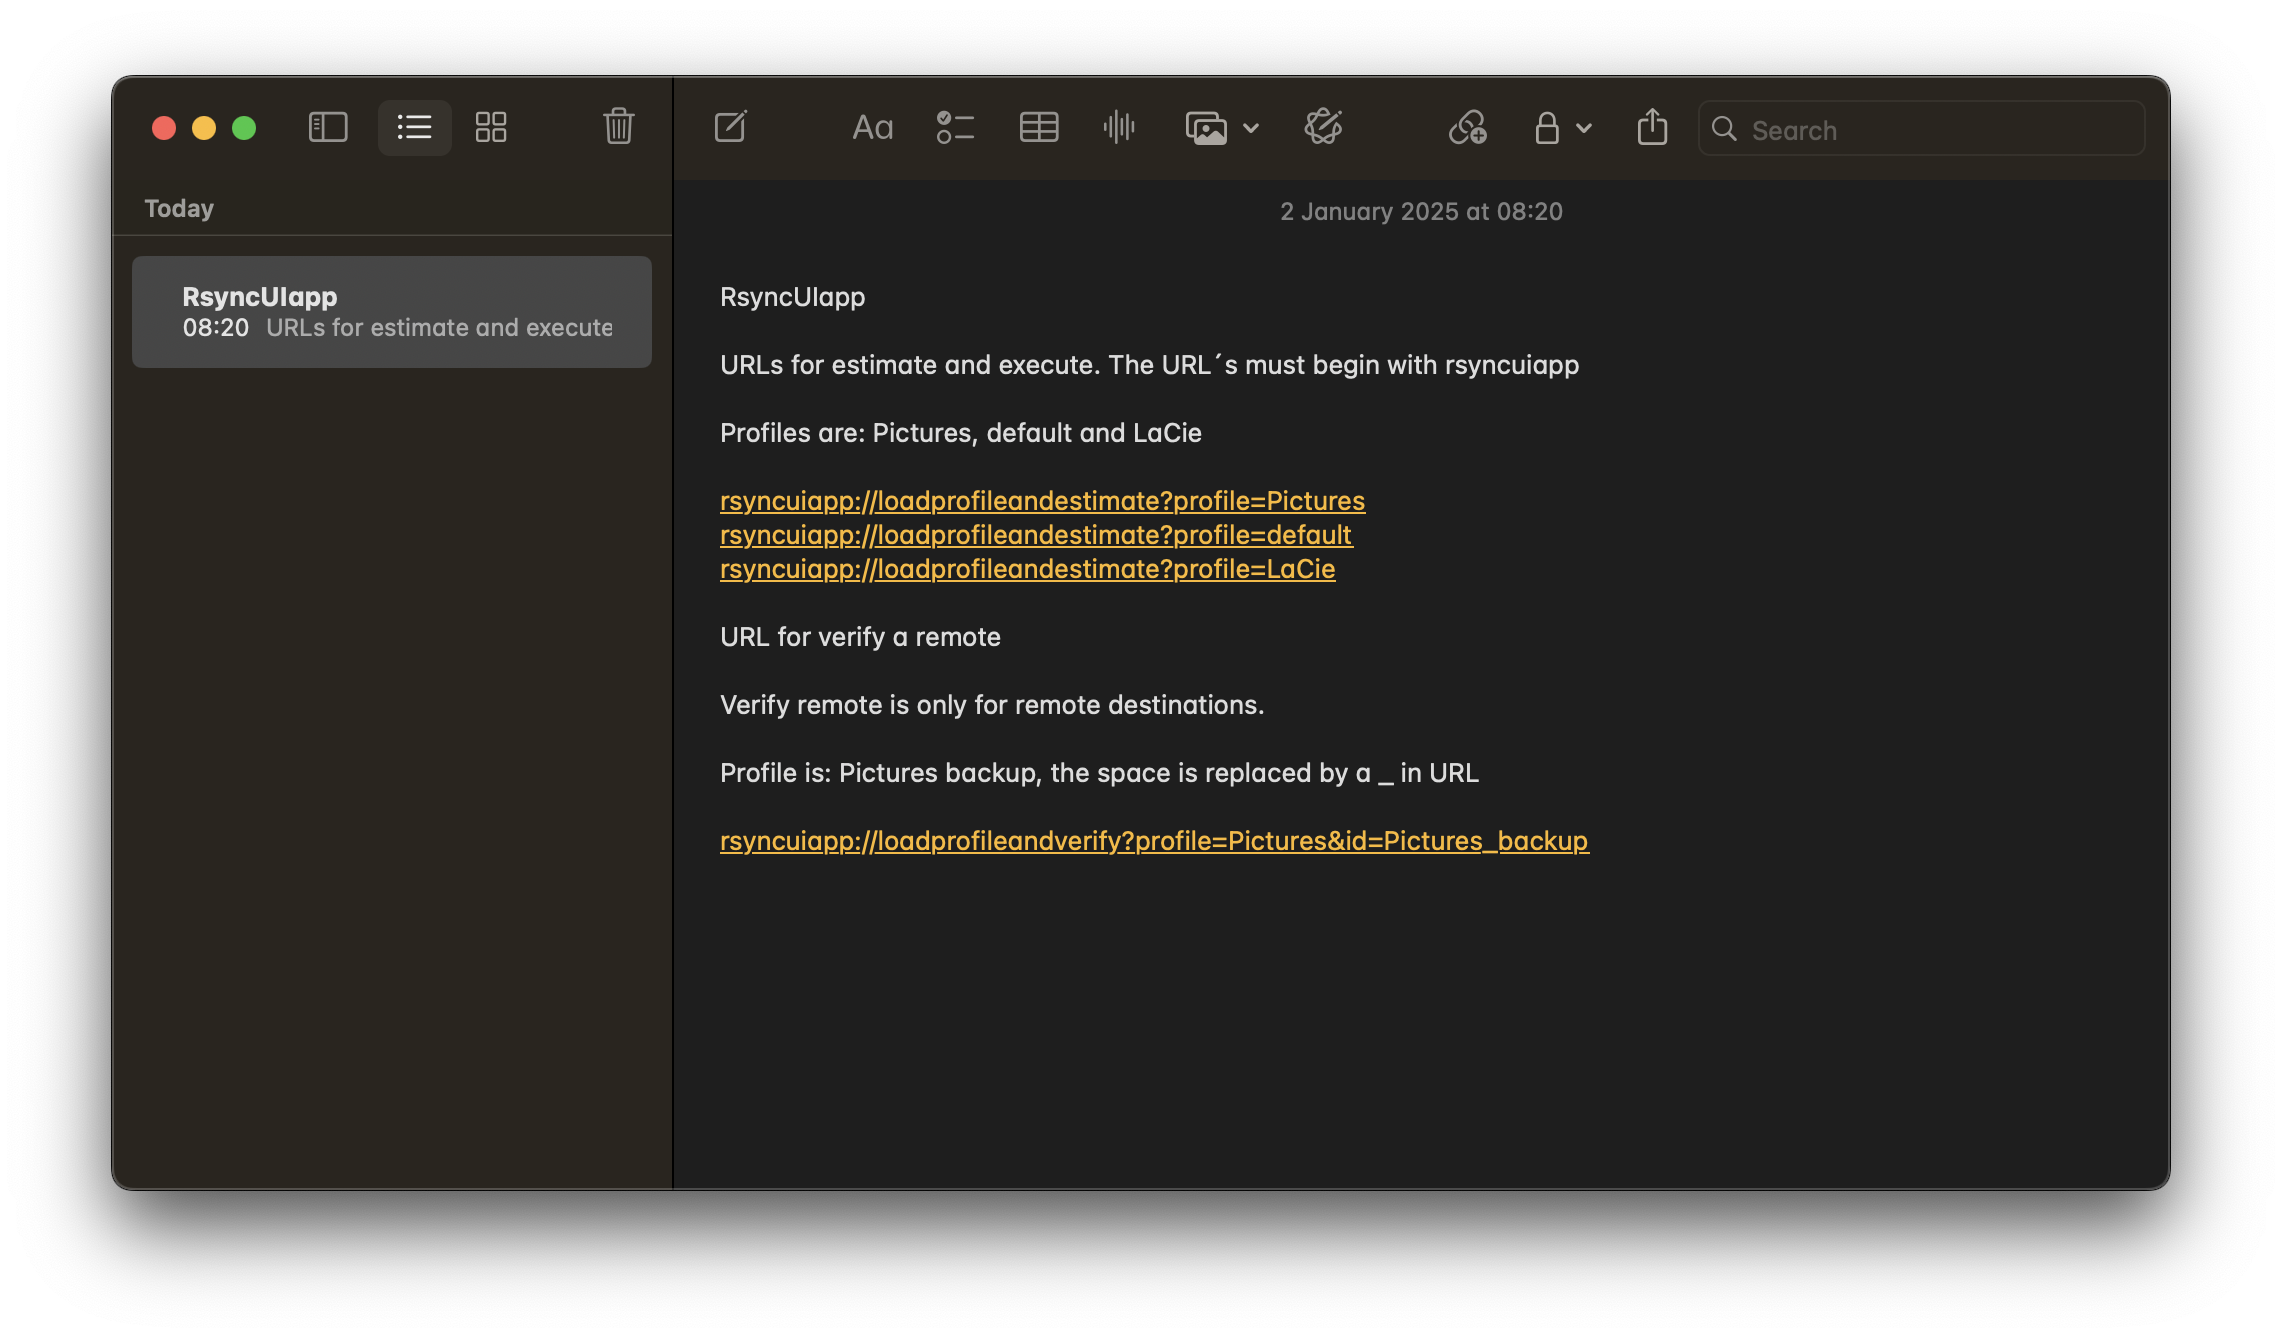
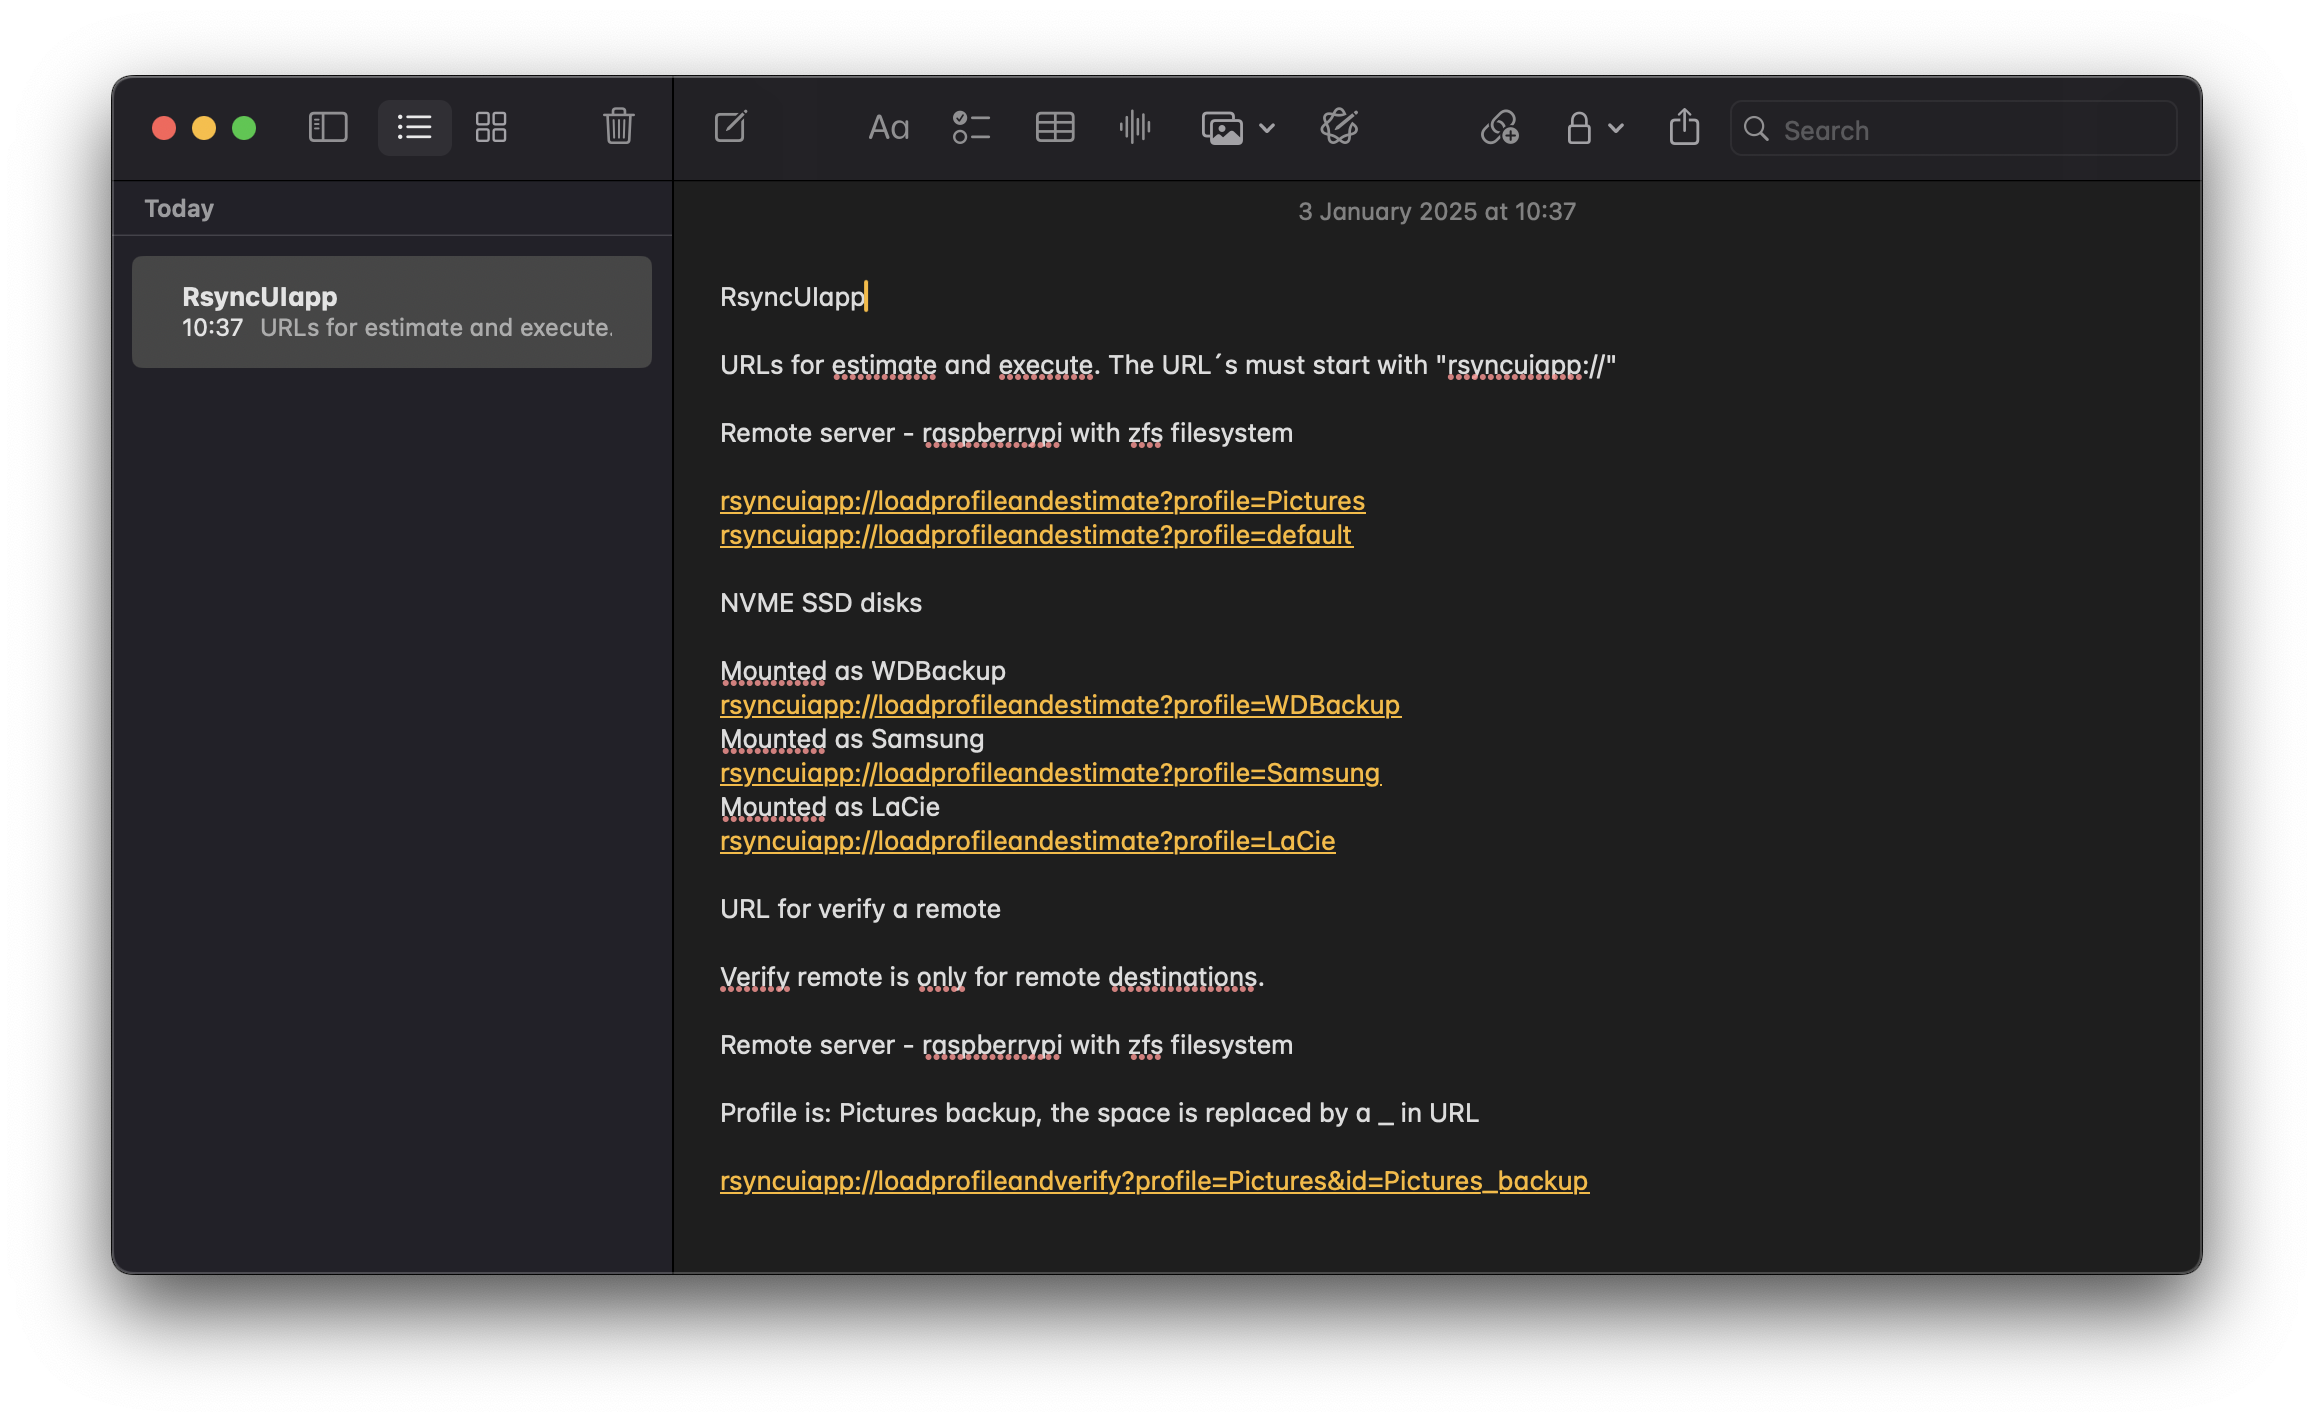
update

diff --git a/content/en/docs/urlcommands/_index.md b/content/en/docs/urlcommands/_index.md
@@ -5,7 +5,6 @@ date = "2024-11-20"
 tags = ["url commands"]
 categories = ["synchronize"]
 +++
-**This page is in development. Deep link is not yet released.**
 
 The new feature in version 2.2.4 of RsyncUI is *deep links*. Deep links enables direct access to application features by using URL links. By using deep links, enables by one click, to excute *an estimate and synchronize action* in one go. Utilizing  deep links in RsyncUI is *grouping together* actions which normally are two ore more actions activated by user input. 
 
@@ -15,19 +14,9 @@ There are two methods of using deep links:
     - by one click one the URL-link opens RsyncUI and executes the task
 - use URL functions direct within RsyncUI
 
-The sample profile *Pictures*  is selected and the first task is annotated with Synchronize ID *Pictures backup*.
-
-{{< figure src="/images/url/pictures.png" alt="" position="center" style="border-radius: 8px;" >}}
-
-URL´s saved in Notepad
-
-{{< figure src="/images/url/notepad.png" alt="" position="center" style="border-radius: 8px;" >}}
-
-
-##### URL´s for Notepad
+##### URL´s 
 
 URL´s must start with `rsyncuiapp://`. If not RsyncUI will not recognize the command.
- 
 
 | Action                                                | URL                                                                     |
 |-------------------------------------------------------|-------------------------------------------------------------------------|

diff --git a/content/en/docs/urlcommands/Notepad.md b/content/en/docs/urlcommands/Notepad.md
@@ -1,0 +1,42 @@
++++
+author = "Thomas Evensen"
+title = "URLs Notepad"
+date = "2024-11-20"
+tags = ["url commands"]
+categories = ["synchronize"]
++++
+A few samples of URL´s I am executing from Notepad. URL´s must start with `rsyncuiapp://`, if not RsyncUI will not recognize the command.  My URL´s saved in Notepad for easy access and execution of my most used tasks.
+
+{{< figure src="/images/url/notepad.png" alt="" position="center" style="border-radius: 8px;" >}}
+
+##### Sample URLs which I am using
+
+URLs for estimate and execute. The URL´s must start with *rsyncuiapp://*
+
+**Remote server** - raspberrypi with zfs filesystem
+
+`rsyncuiapp://loadprofileandestimate?profile=Pictures`
+`rsyncuiapp://loadprofileandestimate?profile=default`
+
+**NVME SSD** disks
+
+Mounted as WDBackup
+
+`rsyncuiapp://loadprofileandestimate?profile=WDBackup`
+
+Mounted as Samsung
+
+`rsyncuiapp://loadprofileandestimate?profile=Samsung`
+
+Mounted as LaCie
+
+`rsyncuiapp://loadprofileandestimate?profile=LaCie`
+
+**URL for verify a remote**
+
+Verify remote is only for remote destinations. Remote server - raspberrypi with zfs filesystem.
+
+Profile is: Pictures backup, the space is replaced by a \_ in URL
+
+`rsyncuiapp://loadprofileandverify?profile=Pictures&id=Pictures_backup`
+

diff --git a/content/en/blog/Version224.md b/content/en/blog/Version224.md
@@ -1,7 +1,7 @@
 +++
 author = "Thomas Evensen"
 title = "Version 2.2.4"
-date = "2025-01-01"
+date = "2025-01-03"
 tags = ["changelog","version 2.2.4","deep links"]
 categories = ["changelog"]
 +++
@@ -15,4 +15,4 @@ The main repository is updated with the latest development, including code for d
 
 Utilizing  deep links in RsyncUI is *grouping together* actions which normally are two ore more actions activated by user input.
 
-See documentation for more [info about deep links](/docs/urlcommands/)
+See documentation for more [info about deep links](/docs/urlcommands/).
